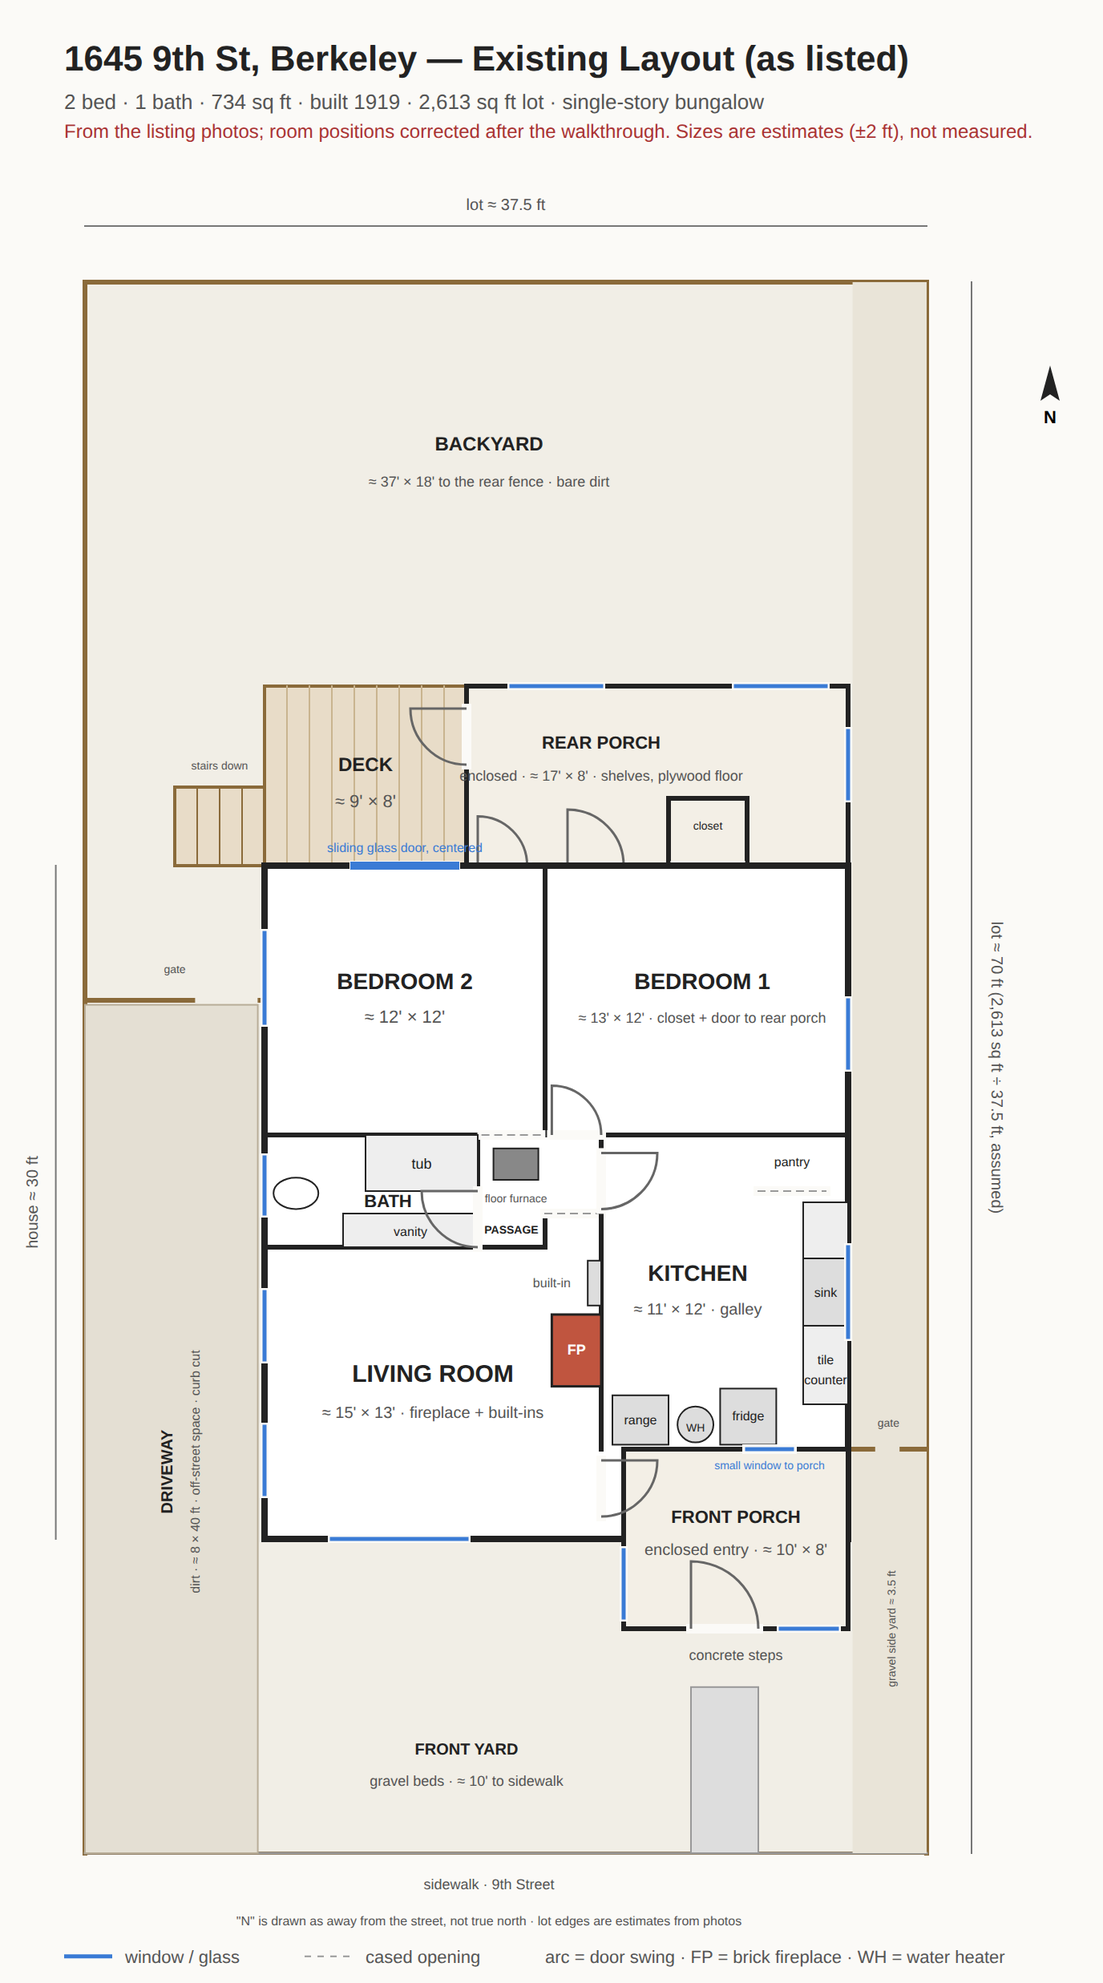
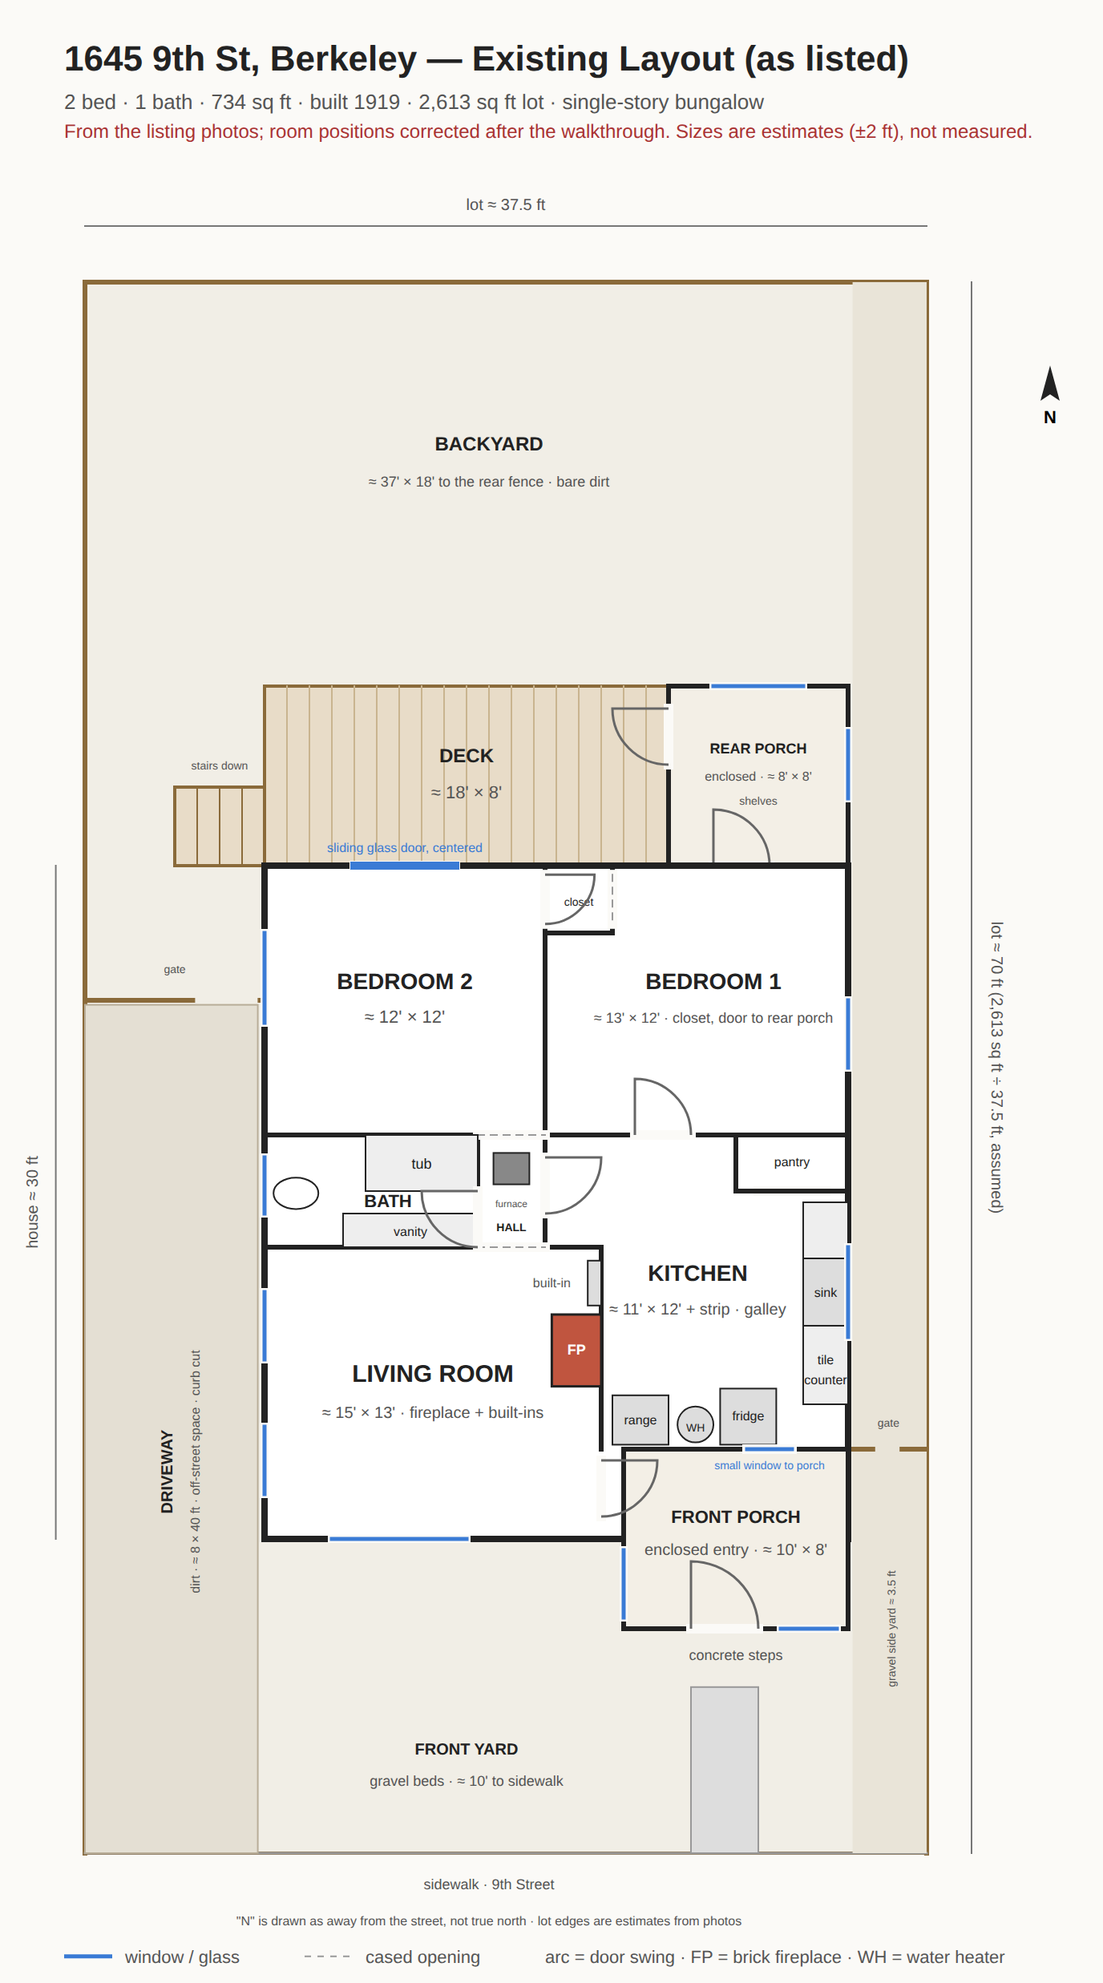
Straight hall, wider deck, narrow rear porch, walk-through closet
Per Keith: the hall is a straight 3 ft corridor from the living room to
the rear-left room with the bath door west and the kitchen door east; no
alcove. Deck ≈18×8 runs past bedroom 2 along part of bedroom 1's back
wall; the rear porch is ≈8×8 at the east end. Bedroom 2's corner door
goes into bedroom 1's closet (walk-through). Kitchen is L-shaped with a
strip beside the hall; on the proposed sheet that strip becomes a short
hall serving both bedrooms.

Claude-Session: https://claude.ai/code/session_01QP4ZkLkW7cUrZ9x3HXMY7H

diff --git a/index.html b/index.html
@@ -39,8 +39,8 @@ table{border-collapse:collapse;font-size:14px}td,th{padding:4px 12px 4px 0;text-
 <strong>Proposed changes</strong>
 <ul>
 <li><strong>Kitchen moves to the rear-left room with the slider</strong> so it opens directly onto the deck. Becomes an eat-in kitchen, roughly 12 × 12, sharing a wet wall with the bath. Sink and range on the west wall; the existing corner door to the back room stays.</li>
-<li><strong>Old kitchen (front-right, roughly 11 × 12) becomes bedroom 1.</strong> The rear-right bedroom stays a bedroom, becomes bedroom 2, roughly 13 × 12; it already has a closet. Floor furnace comes out; mini-splits instead.</li>
-<li><strong>Rear porch becomes laundry / mudroom</strong>, roughly 17 × 8 across the back, entered from the kitchen's rear-corner door and from bedroom 2, opening onto the deck. Washer, dryer and water heater go along its back wall.</li>
+<li><strong>Old kitchen (front-right, roughly 11 × 12) becomes bedroom 1.</strong> Its strip beside the hall becomes a short hall with doors to both bedrooms. The rear-right bedroom stays a bedroom, becomes bedroom 2, roughly 13 × 12, and keeps its closet. Floor furnace comes out; mini-splits instead.</li>
+<li><strong>Rear porch becomes laundry / mudroom</strong>, roughly 8 × 8, entered from bedroom 2 and from the deck. Washer, dryer and water heater go in it.</li>
 <li>Living room, bath, hall, and front porch unchanged in this pass.</li>
 </ul>
 <strong>Open questions</strong>

diff --git a/floor-plan/generate.py b/floor-plan/generate.py
@@ -41,7 +41,7 @@ def build(variant):
     out.append(f'<text x="40" y="68" font-size="13" fill="#555">2 bed · 1 bath · 734 sq ft · built 1919 · 2,613 sq ft lot · single-story bungalow</text>')
     if proposed:
         out.append(f'<text x="40" y="86" font-size="12" fill="#1a7a3c">Change: kitchen moves from the front-right room to the rear-left room with the slider, opening onto the deck.</text>')
-        out.append(f'<text x="40" y="102" font-size="12" fill="#1a7a3c">Old kitchen → bedroom 1. Rear-right stays a bedroom (2). Rear porch → laundry / mudroom. Furnace out, mini-splits in.</text>')
+        out.append(f'<text x="40" y="102" font-size="12" fill="#1a7a3c">Old kitchen → bedroom 1; its strip beside the hall serves both bedrooms. Rear porch → laundry / mudroom. Furnace out.</text>')
     else:
         out.append(f'<text x="40" y="86" font-size="12" fill="#a33">From the listing photos; room positions corrected after the walkthrough. Sizes are estimates (±2 ft), not measured.</text>')
 
@@ -62,39 +62,38 @@ def build(variant):
     label(9,39.6,"FRONT YARD",10); label(9,41,"gravel beds · ≈ 10' to sidewalk",9,False,"#555")
     rect(19,36.6,22,44,fill="#ddd",stroke="#999",sw=1)   # front walk
     label(10,45.6,"sidewalk · 9th Street",9,False,"#555")
-    # deck: from the west edge of the house to the rear porch; stairs off its west end drop into the side yard, in line with the back wall (Keith)
-    rect(0,-8,9,0,fill="#e8dcc8",stroke="#8a6a3a",sw=2)
-    for i in range(1,9): line(i,-8,i,0,stroke="#c9b48f",sw=1)
-    label(4.5,-4.2,"DECK",12); label(4.5,-2.6,"≈ 9' × 8'",11,False,"#555")
+    # deck (Keith): wider than the rear-left room, overlaps part of the rear-right room's back wall; stairs off its west end in line with the back wall
+    rect(0,-8,18,0,fill="#e8dcc8",stroke="#8a6a3a",sw=2)
+    for i in range(1,18): line(i,-8,i,0,stroke="#c9b48f",sw=1)
+    label(9,-4.6,"DECK",12); label(9,-3,"≈ 18' × 8'",11,False,"#555")
     rect(-4,-3.5,0,0,fill="#e8dcc8",stroke="#8a6a3a",sw=2)
     for i in range(1,4): line(-i,-3.5,-i,0,stroke="#8a6a3a",sw=1)
     label(-2,-4.3,"stairs down",7,False,"#555")
-    # rear porch bump-out (photos 11, 19, 21): one long enclosed room across the back, shelves, plywood floor;
-    # doors from bedroom 2's rear corner and from bedroom 1; bedroom 1's closet is inside it
-    rect(9,-8,26,0,fill="#f3efe6",stroke="#222",sw=3)
-    line(18,-3,21.5,-3); line(18,-3,18,0); line(21.5,-3,21.5,0); opening(18.3,0,21.2,0); label(19.75,-1.6,"closet",7,False)
+    # rear porch bump-out (Keith: narrow; photo 11: shelves, plywood floor, small high window), flush with the deck edge
+    rect(18,-8,26,0,fill="#f3efe6",stroke="#222",sw=3)
     if proposed:
-        label(15,-5.6,"LAUNDRY / MUDROOM",10); label(15,-4.3,"existing rear porch · ≈ 17' × 8'",9,False,"#555")
-        label(15,-3.1,"washer / dryer / WH along the back wall",8,False,"#1a7a3c")
+        label(22,-5.2,"LAUNDRY /",9); label(22,-4.1,"MUDROOM",9); label(22,-2.9,"≈ 8' × 8'",8,False,"#555")
     else:
-        label(15,-5.2,"REAR PORCH",11); label(15,-3.8,"enclosed · ≈ 17' × 8' · shelves, plywood floor",9,False,"#555")
-    window(11,-8,15,-8); window(21,-8,25,-8); window(26,-6,26,-3)
-    door(9,-7,2.5,'w')                                      # porch -> deck
-    door(9.5,0,2.2,'n'); door(13.5,0,2.5,'n')               # bedroom 2's rear-corner door and bedroom 1's door into the porch
+        label(22,-5,"REAR PORCH",9); label(22,-3.8,"enclosed · ≈ 8' × 8'",8,False,"#555"); label(22,-2.7,"shelves",7,False,"#555")
+    window(20,-8,24,-8); window(26,-6,26,-3)
+    door(18,-7,2.5,'w')                                     # porch -> deck
+    door(20,0,2.5,'n')                                      # bedroom 1 -> porch (photo 16)
     # main house
     rect(0,0,26,30,fill="#fff",stroke="#222",sw=4)
     rect(16,26,26,34,fill="#f3efe6",stroke="#222",sw=3)
     label(21,29.3,"FRONT PORCH",11); label(21,30.7,"enclosed entry · ≈ 10' × 8'",10,False,"#555")
     door(19,34,3,'n'); window(16,30.5,16,33.5); window(23,34,25.5,34)
     label(21,35.4,"concrete steps",9,False,"#555")
-    # interior walls: rear partition, the y=12 line, bath, passage, living room
-    line(12.5,0,12.5,12); line(12.5,12,26,12)   # partition between the rear rooms, in line with the alcove return (Keith)
-    line(0,12,9.7,12); line(9.5,12,9.5,17); line(0,17,12.5,17)
-    line(12.5,15.5,12.5,17); opening(12.5,15.5,15,15.5)   # inset doorway: living room -> passage (photos 07, 09)
-    line(15,12,15,26)                                     # passage / kitchen wall continues as the fireplace wall
-    opening(9.7,12,12.3,12)                               # passage -> bedroom 2, cased opening (photo 20)
-    door(12.8,12,2.2,'n')                                 # passage -> bedroom 1
-    door(15,12.8,2.5,'e')                                 # passage -> kitchen (photos 12, 14)
+    # interior walls
+    line(12.5,0,12.5,12); line(12.5,12,26,12)   # partition between the rear rooms, in line with the hall's east wall (Keith)
+    line(0,12,9.5,12); line(9.5,12,9.5,17)      # bath: 0-9.5 × 12-17
+    line(12.5,12,12.5,17)                        # hall's east wall = kitchen's west wall
+    line(0,17,9.5,17); line(12.5,17,15,17)       # living room north wall, with the hall opening between
+    opening(9.5,17,12.5,17); opening(9.5,12,12.5,12)   # hall: straight, cased both ends, living room -> rear-left room (photo 09)
+    line(15,17,15,26)                            # fireplace wall
+    # bedroom 1's closet, NW corner, walk-through from bedroom 2's rear corner (photos 15-20)
+    line(12.5,3,15.5,3); line(15.5,0,15.5,3); label(14,1.8,"closet",7,False)
+    door(12.5,0.4,2.2,'e'); opening(15.5,0.4,15.5,2.6)
     # fireplace / built-in on the living room's east wall (photo 07): built-in, fireplace, porch door
     rect(12.8,20,15,23.2,fill="#c0553f",stroke="#222",sw=1.5); label(13.9,21.8,"FP",9,True,"#fff")
     rect(14.4,17.6,15,19.6,fill="#ddd",stroke="#222",sw=1); label(12.8,18.8,"built-in",8,False,"#555")
@@ -102,15 +101,17 @@ def build(variant):
     rect(4.5,12,9.5,14.5,fill="#eee",stroke="#222",sw=1); label(7,13.5,"tub",9,False)
     rect(3.5,15.5,9.5,17,fill="#eee",stroke="#222",sw=1); label(6.5,16.5,"vanity",8,False)
     e=P(1.4,14.6); out.append(f'<ellipse cx="{e[0]}" cy="{e[1]}" rx="{1*S}" ry="{0.7*S}" fill="#fff" stroke="#222" stroke-width="1"/>')
-    label(5.5,15.2,"BATH",11); label(11,16.4,"PASSAGE",7)
+    label(5.5,15.2,"BATH",11)
+    door(9.5,14.5,2.5,'w')                                # bath door, off the hall
     if not proposed:
-        rect(10.2,12.6,12.2,14,fill="#888",stroke="#222",sw=1); label(11.2,15,"floor furnace",7,False,"#555")   # grate in the passage (photos 09, 12, 14, 20)
-
-    if not proposed:
-        # existing: bedroom 2 rear-left, bedroom 1 rear-right, kitchen front-right (Keith)
+        rect(10.2,12.8,11.8,14.2,fill="#888",stroke="#222",sw=1); label(11,15.2,"furnace",6,False,"#555")   # floor furnace grate in the hall (photos 09, 12, 14, 20)
+        label(11,16.3,"HALL",7)
+        door(12.5,13,2.5,'e')                               # hall -> kitchen (photos 12, 14)
+        door(16.5,12,2.5,'n')                               # kitchen -> bedroom 1
+        # existing: bedroom 2 rear-left, bedroom 1 rear-right, kitchen front-right (L-shaped: the strip beside the hall plus the room behind the porch)
         line(4,0,8.5,0,stroke="#fbfaf7",sw=6); line(4,0,8.5,0,stroke="#3a7bd5",sw=5); label(6.25,-0.6,"sliding glass door, centered",8,False,"#3a7bd5")
         label(6.25,5.5,"BEDROOM 2",14); label(6.25,7,"≈ 12' × 12'",11,False,"#555")
-        label(19.5,5.5,"BEDROOM 1",14); label(19.5,7,"≈ 13' × 12' · closet + door to rear porch",9,False,"#555")
+        label(20,5.5,"BEDROOM 1",14); label(20,7,"≈ 13' × 12' · closet, door to rear porch",9,False,"#555")
         # kitchen (photos 08, 10, 12): tile counter and sink under the east window, range + WH + small window on the porch wall, fridge beside, pantry shelves at the north end
         rect(24,15,26,24,fill="#eee",stroke="#222",sw=1); label(25,22.2,"tile",8,False); label(25,23.1,"counter",8,False)
         rect(24,17.5,26,20.5,fill="#ddd",stroke="#222",sw=1); label(25,19.2,"sink",8,False)
@@ -118,23 +119,27 @@ def build(variant):
         circle(19.2,24.9,0.8); label(19.2,25.2,"WH",7,False)
         rect(20.3,23.3,22.8,25.8,fill="#ddd",stroke="#222",sw=1); label(21.55,24.7,"fridge",8,False)
         line(21.5,26,23.5,26,stroke="#fbfaf7",sw=6); line(21.5,26,23.5,26,stroke="#3a7bd5",sw=2.5); label(22.5,26.9,"small window to porch",7,False,"#3a7bd5")
+        label(19.3,18.5,"KITCHEN",14); label(19.3,20,"≈ 11' × 12' + strip · galley",10,False,"#555"); label(23.5,13.4,"pantry",8,False)
     else:
-        # proposed: kitchen rear-left (eat-in, opens to the deck, door to the mudroom); bedroom 2 rear-right; bedroom 1 front-right
+        label(11,15.6,"HALL",7); label(11,13.5,"furnace",6,False,"#1a7a3c"); label(11,14.3,"out",6,False,"#1a7a3c")
+        # the old kitchen's strip beside the hall becomes a short hall serving both bedrooms; the old kitchen door is the entry
+        opening(12.5,13,12.5,15.5); door(12.8,12,2.4,'n'); door(15,13,2.5,'e')
+        label(13.75,16.3,"hall",6,False,"#1a7a3c")
+        # kitchen rear-left (eat-in, opens to the deck); its old corner door into the closet gets closed
         line(4,0,8.5,0,stroke="#fbfaf7",sw=6); line(4,0,8.5,0,stroke="#3a7bd5",sw=5); label(6.25,-0.6,"sliding / French door to deck",8,False,"#3a7bd5")
+        line(12.5,0.4,12.5,2.6,stroke="#222",sw=3); line(12.5,0.4,12.5,2.6,stroke="#1a7a3c",sw=1,dash="3,3")
         rect(0.2,1.5,2,11.8,fill="#eee",stroke="#222",sw=1); label(1.1,3.4,"counter",7,False)
         rect(0.2,4.5,2,7,fill="#ddd",stroke="#222",sw=1); label(1.1,5.9,"sink",7,False)
         rect(0.2,8,2.2,10.5,fill="#ddd",stroke="#222",sw=1); label(1.2,9.4,"range",7,False)
         rect(3,9.5,5.5,11.8,fill="#ddd",stroke="#222",sw=1); label(4.25,10.8,"fridge",8,False)
         rect(4.5,2.5,9.5,5.5,fill="#f4e9d0",stroke="#8a6a3a",sw=1); label(7,4.3,"table / island",8,False,"#555")
         label(7.2,7.6,"KITCHEN (eat-in)",14); label(7.2,9,"≈ 12' × 12' · opens to deck",10,False,"#555")
-        label(19.5,6,"BEDROOM 2",13); label(19.5,7.4,"≈ 13' × 12' · existing closet",10,False,"#555")
+        label(20,6,"BEDROOM 2",13); label(20,7.4,"≈ 13' × 12' · closet, door to mudroom",9,False,"#555")
+        label(19.3,18.5,"BEDROOM 1",14); label(19.3,20,"≈ 11' × 12' · former kitchen",10,False,"#555"); label(23.5,13.4,"closet",8,False)
     # shared: doors, windows, labels
-    door(9.5,14.5,2.5,'w'); opening(22,14.5,25,14.5); door(15,26.5,2.5,'e')
+    opening(22,14.5,25,14.5); door(15,26.5,2.5,'e')
+    line(21,12,21,14.5); line(21,14.5,26,14.5)   # pantry / closet nook
     window(0,3,0,7); window(0,13,0,15.5); window(0,19,0,22); window(0,25,0,28); window(3,30,9,30); window(26,17,26,21); window(26,6,26,9)
-    if proposed:
-        label(19.5,18.5,"BEDROOM 1",14); label(19.5,20,"≈ 11' × 12' · former kitchen",10,False,"#555"); label(23.5,13.4,"closet",8,False)
-    else:
-        label(19.3,18.5,"KITCHEN",14); label(19.3,20,"≈ 11' × 12' · galley",10,False,"#555"); label(23.5,13.4,"pantry",8,False)
     label(7.5,23,"LIVING ROOM",15); label(7.5,24.6,"≈ 15' × 13' · fireplace + built-ins",10,False,"#555")
     # dims / north / street / legend
     line(-9.3,0,-9.3,30,stroke="#777",sw=1); p=P(-10.1,15)

diff --git a/CLAUDE.md b/CLAUDE.md
@@ -29,10 +29,10 @@ Rough photo index:
 - 01–03 front exterior, 05 side yard, 21 backyard and deck
 - 04, 06, 07, 09 living room (brick fireplace, built-ins, picture rail)
 - 08, 10, 12 kitchen (front-right room behind the porch; tile counter, water heater in kitchen)
-- 11 rear enclosed porch (shelves, plywood floor, small high window, glass door from bedroom 1)
-- 13, 14 bathroom (14 looks east out the bath door: furnace grate in the passage, kitchen door beyond)
-- 15, 16, 17 bedroom 1 (rear-right; closet, door to the rear porch, door to the passage)
-- 18, 19, 20 bedroom 2 (rear, sliding door to deck; door in the rear-east corner into the rear porch; 20 looks south at the passage opening with the furnace grate)
+- 11 rear enclosed porch (shelves, plywood floor, small high window, door from bedroom 1)
+- 13, 14 bathroom (14 looks east out the bath door across the hall: furnace grate, kitchen door beyond)
+- 15, 16, 17 bedroom 1 (rear-right; walk-through closet, door to the rear porch)
+- 18, 19, 20 bedroom 2 (rear, sliding door to deck; door in the rear-east corner into the walk-through closet; 20 looks south at the hall opening with the furnace grate)
 
 ## Floor plans
 
@@ -43,26 +43,26 @@ Rough photo index:
 
 The existing plan was reconstructed from the listing photos and Keith's walkthrough notes, not measured. Treat room sizes as ±2 ft.
 
-Layout as drawn (Sept 9 revision, from photos 04–20):
+Layout as drawn (Sept 10 revision, from all 21 photos and Keith's notes):
 
-- **Living room** front-left, ≈15×13. East wall, north to south: built-in, brick fireplace (flush on the far side), door to the enclosed front porch. Its north wall has an inset cased doorway at the east end (a short return wall makes the alcove) that opens into the passage.
-- **Passage**, ≈5×5, between the living room and the rear rooms: bath door on the west, kitchen door on the east, cased opening north into bedroom 2, door north-east into bedroom 1. The red-tagged floor furnace grate is in its floor.
-- **Bath** ≈9×5 on the west: door at the east end; from it, vanity on the south wall, tub on the north wall with its end at the door, toilet under the west window.
-- **Kitchen** front-right, ≈11×12, behind the porch: tile counter and sink under the east window, range and water heater on the porch wall with a small high window into the porch, fridge beside them, pantry shelves at the north end.
-- **Bedroom 2** rear-left, ≈12×12: slider centered on the back wall onto the deck (no other opening on that wall), window on the west wall, door in the rear-east corner into the rear porch, no closet.
-- **Bedroom 1** rear-right, ≈13×12: door from the passage, door into the rear porch, closet inside the porch bump-out. The partition between the rear rooms lines up with the alcove return.
-- **Rear porch** ≈17×8, enclosed, shelves, plywood floor, across the back of both rear rooms, flush with the deck edge; door to the deck.
-- **Deck** ≈9×8 from the porch to the west edge of the house; stairs off its west end drop into the side yard in line with the back wall.
+- **Living room** front-left, ≈15×13. East wall, north to south: built-in, brick fireplace (flush on the far side), door to the enclosed front porch. A cased opening at the east end of its north wall is the start of the hall.
+- **Hall**: a straight 3 ft corridor from the living room north into the rear-left room, cased at both ends. Bath door on its west side, kitchen door on its east side, the red-tagged floor furnace grate in its floor (photos 09, 12, 14, 20).
+- **Bath** ≈9.5×5 on the west of the hall: door at the east end; from it, vanity on the south wall, tub on the north wall with its end at the door, toilet under the west window.
+- **Kitchen** front-right, L-shaped: the ≈11×12 room behind the porch plus the ≈2.5×5 strip east of the hall. Tile counter and sink under the east window, range and water heater on the porch wall with a small high window into the porch, fridge beside them, pantry nook at the north end, door north into bedroom 1.
+- **Bedroom 2** rear-left, ≈12×12: slider centered on the back wall onto the deck, window on the west wall, no closet. Its rear-east corner door goes into bedroom 1's closet, which is a walk-through.
+- **Bedroom 1** rear-right, ≈13×12: door from the kitchen, closet in its north-west corner (walk-through from bedroom 2), door into the rear porch, east window. The partition between the rear rooms lines up with the hall's east wall.
+- **Rear porch** ≈8×8, enclosed, narrow, on the east end of the back wall, flush with the deck edge; shelves, plywood floor, small high window, door to the deck.
+- **Deck** ≈18×8 from the west edge of the house to the porch, so it runs past bedroom 2 and along part of bedroom 1's back wall; stairs off its west end drop into the side yard in line with the back wall.
 
 The lot is drawn from photos 01, 03, 05 and 21 and the listed 2,613 sq ft: about 37.5 ft wide (an 8 ft dirt driveway on the west running from the curb to a gate near the house's rear corner, a 3.5 ft gravel side yard on the east with its own gate at the back of the porch) by 70 ft deep, with roughly 18 ft of bare backyard behind the deck and 10 ft of gravel front yard to the sidewalk. None of that is measured.
 
 ### Proposed changes (as of Sept 9, 2026)
 
 1. **Kitchen moves to the rear-left room with the slider** so it opens directly onto the deck (eat-in, ≈12×12). Reason: don't want to walk through a bedroom to reach the yard. The new kitchen shares its south wall with the bathroom, so the wet wall is shared.
-2. **Old kitchen (front-right, ≈11×12) becomes bedroom 1**, entered from the passage through the existing kitchen door. Its plumbing gets abandoned.
-3. **Rear-right bedroom stays a bedroom** and becomes bedroom 2 (≈13×12). It already has a closet and a door into the rear porch.
-4. **Rear porch becomes laundry / mudroom** (≈17×8), reached from the kitchen's rear-corner door and from bedroom 2, opening onto the deck; washer, dryer and water heater along the back wall.
-5. Living room, bath, passage, front porch unchanged. Floor furnace comes out; mini-splits.
+2. **Old kitchen (front-right, ≈11×12) becomes bedroom 1.** Its strip beside the hall becomes a short hall of its own, entered through the old kitchen door, with a door east into bedroom 1 and a door north into bedroom 2, so neither bedroom is walked through. Its plumbing gets abandoned.
+3. **Rear-right bedroom stays a bedroom** and becomes bedroom 2 (≈13×12). It keeps its closet and its door into the rear porch; the closet's door from the new kitchen gets closed.
+4. **Rear porch becomes laundry / mudroom** (≈8×8), reached from bedroom 2 and from the deck; washer, dryer and water heater in it.
+5. Living room, bath, hall, front porch unchanged. Floor furnace comes out; mini-splits.
 
 Open questions: verify room sizes and door placements on the next visit (no measured plan exists); confirm whether the termite report's "rear half bathroom" means there is a second sink/half bath in the rear porch area, which now sits off bedroom 1. The floor furnace is red-tagged by PG&E (Aug 2026) and comes out; heating will be mini-splits (see `BUDGET.md`). 
 
